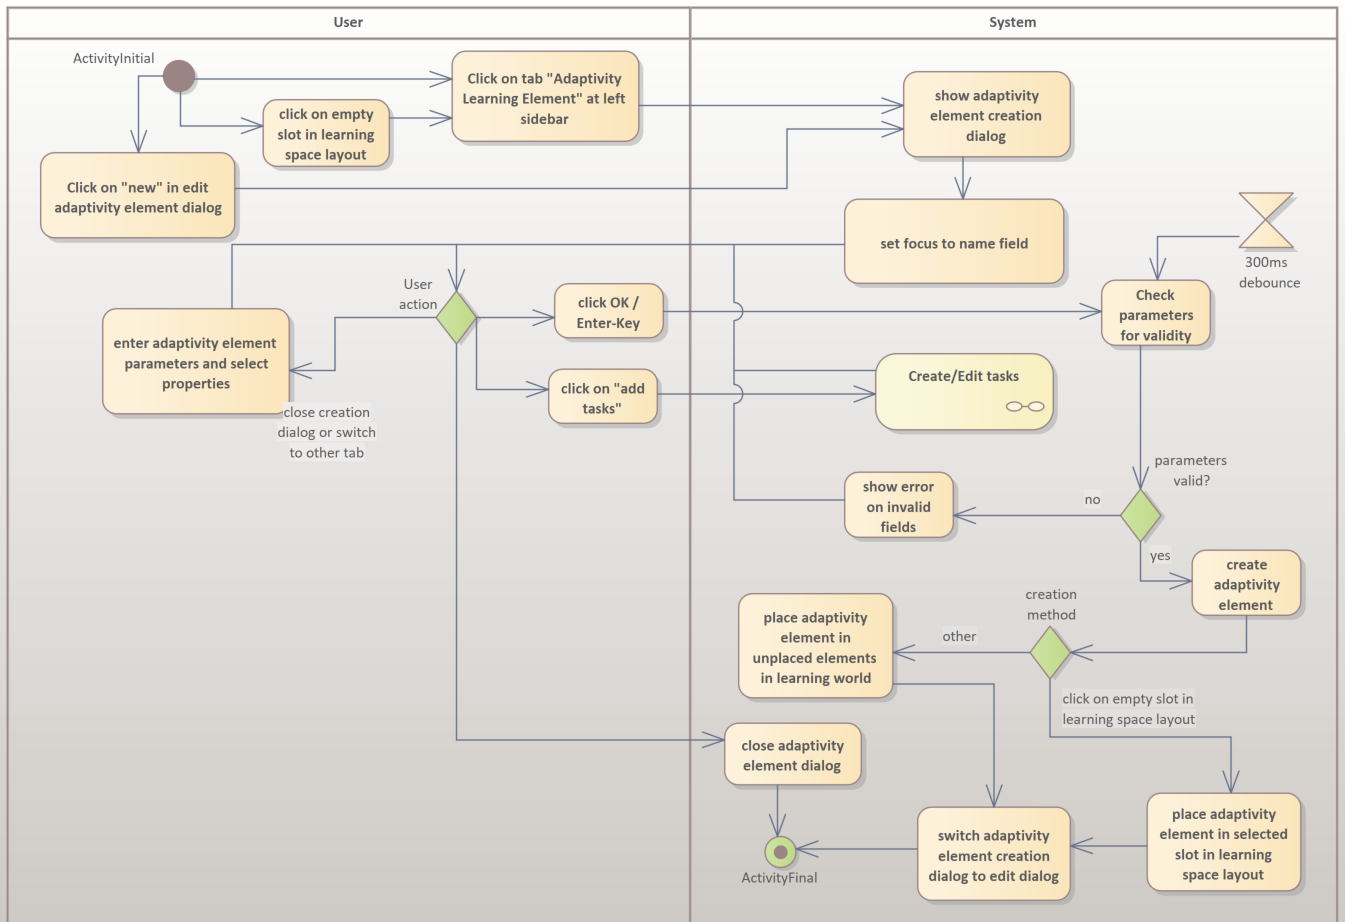
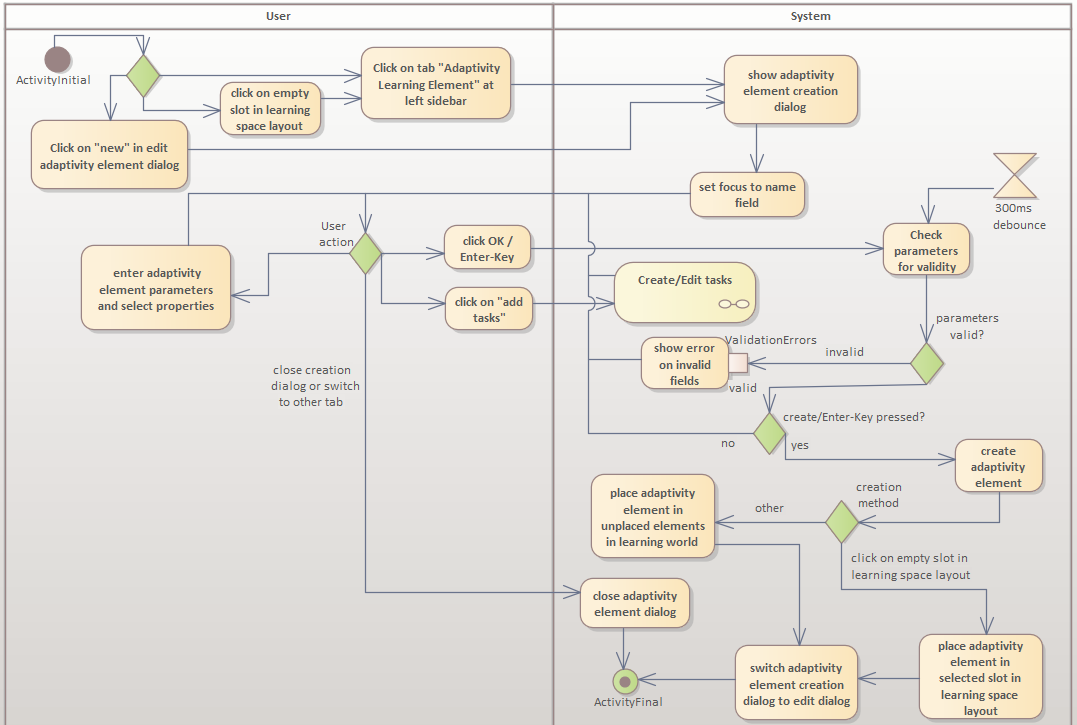
added diagrams: - Adaptivitätselement bearbeiten - Adaptivitätselement löschen - Aufgabe erstellen/bearbeiten/löschen (in progress) changed diagrams: - Adaptivitätselement erstellen

Changed region(s): [[0.0, 0.0, 1.0, 1.0], [0.0613, 0.3338, 0.337, 0.5766], [0.0, 0.5159, 0.0306, 0.5462]]

diff --git a/AdLerDokumentation/Writerside/topics/AWA0010.md b/AdLerDokumentation/Writerside/topics/AWA0010.md
@@ -10,3 +10,5 @@ Das Autorentool muss Lehrenden die Möglichkeit bieten, ein Adaptivitätselement
 - Das Adaptivitätselement kann zusätzlich [](AWA9009.md)erfüllen.
 
 ## Aktivitätsdiagramm:
+
+![imageAktivitätsdiagrammAdaptivitätselementBearbeiten.png](imageAktivitätsdiagrammAdaptivitätselementBearbeiten.png)

diff --git a/AdLerDokumentation/Writerside/topics/AWA0005.md b/AdLerDokumentation/Writerside/topics/AWA0005.md
@@ -10,4 +10,4 @@ Das Autorentool muss Lehrenden die Möglichkeit bieten, eine Aufgabe innerhalb e
 
 ## Aktivitätsdiagramm:
 
-
+![imageAktivitätsdiagrammAufgabeErstellenBearbeitenLöschen.png](imageAktivitätsdiagrammAufgabeErstellenBearbeitenLöschen.png)

diff --git a/AdLerDokumentation/Writerside/topics/AWA0006.md b/AdLerDokumentation/Writerside/topics/AWA0006.md
@@ -11,4 +11,4 @@ Das Autorentool muss Lehrenden die Möglichkeit bieten, eine bestehende Aufgabe 
 
 ## Aktivitätsdiagramm:
 
-
+![imageAktivitätsdiagrammAufgabeErstellenBearbeitenLöschen.png](imageAktivitätsdiagrammAufgabeErstellenBearbeitenLöschen.png)

diff --git a/AdLerDokumentation/Writerside/topics/AWA0007.md b/AdLerDokumentation/Writerside/topics/AWA0007.md
@@ -10,4 +10,4 @@ Das Autorentool muss Lehrenden die Möglichkeit bieten, eine bestehende Aufgabe 
 
 ## Aktivitätsdiagramm:
 
-
+![imageAktivitätsdiagrammAufgabeErstellenBearbeitenLöschen.png](imageAktivitätsdiagrammAufgabeErstellenBearbeitenLöschen.png)

diff --git a/AdLerDokumentation/Writerside/topics/AWA0011.md b/AdLerDokumentation/Writerside/topics/AWA0011.md
@@ -10,4 +10,4 @@ Beim Löschen eines Adaptivitätselements wird dieses aus der das Adaptivitätse
 
 ## Aktivitätsdiagramm:
 
-
+![imageAktivitätsdiagrammAdaptivitätselementLöschen.png](imageAktivitätsdiagrammAdaptivitätselementLöschen.png)
